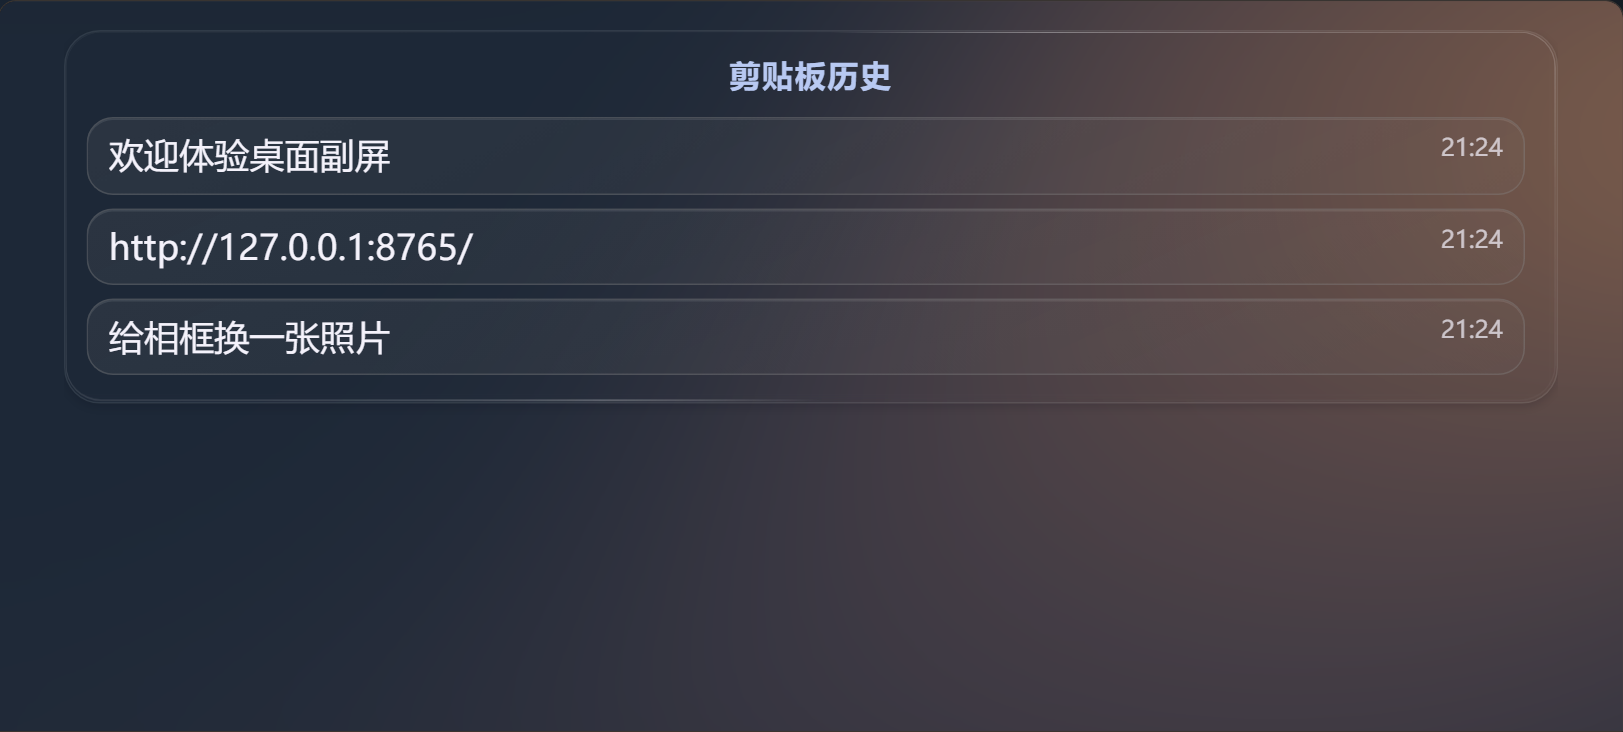
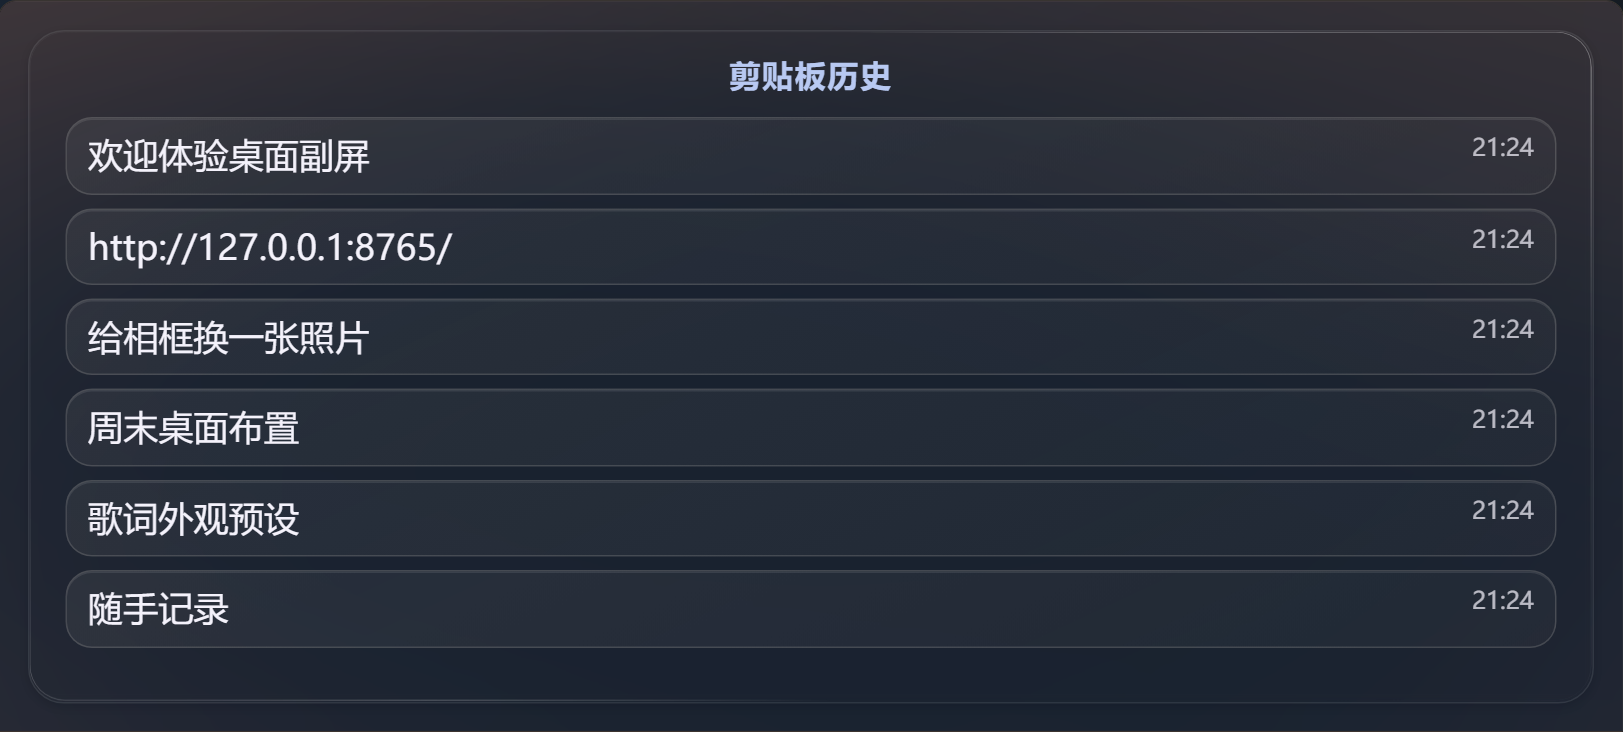
Give standalone clipboard pages equal margins and make weather adjustable

diff --git a/wwwroot/control/pages.js b/wwwroot/control/pages.js
@@ -30,7 +30,8 @@
       gpuName: 'GPU 演示'
     },
     data: { 'weather.temperature': 16, 'weather.feels': 14, 'weather.code': 0, 'weather.wind': 3,
-      'weather.humidity': 54, 'weather.day': true, 'weather.place': '示例地点', 'weather.configured': true }
+      'weather.humidity': 54, 'weather.day': true, 'weather.place': '示例地点', 'weather.configured': true,
+      'clipboard.history': [{ id: 'preview', kind: 'text', text: '剪贴板示例', copiedAt: '2026-01-01T10:00:00Z' }] }
   };
   const sizes = [['small', '小'], ['medium', '中'], ['large', '大']];
   const weatherShapes = [['card', '卡片'], ['round', '圆形'], ['capsule', '胶囊'], ['square', '方形']];
@@ -163,7 +164,7 @@
   function refreshPreview() {
     const page = currentPage();
     preview.style.setProperty('--preview-background', page.color);
-    layoutTools.hidden = page.widgets.length === 0;
+    layoutTools.hidden = page.widgets.length === 0 || widgetPlacement.isClipboardPage(page);
     resetLayout.disabled = !widgetPlacement.isFree(page);
     previewClocks = [];
     previewMusic = [];
@@ -329,10 +330,36 @@
         entries: [['', '无'], ...Object.entries(metrics).map(([id, info]) => [id, info[0]])]
       });
     }
-    const weather = widget.manifest?.blocks?.find(block => block.kind === 'weather');
-    if (weather) field(fields, '天气形状', weather.shape ?? 'card', value => {
-      weather.shape = value;
-    }, { entries: weatherShapes });
+    const weatherBlocks = widget.manifest?.blocks?.filter(block => block.kind === 'weather') ?? [];
+    weatherBlocks.forEach((weather, index) => {
+      const suffix = weatherBlocks.length > 1 ? ' ' + (index + 1) : '';
+      field(fields, '天气形状' + suffix, weather.shape ?? 'card', value => {
+        weather.shape = value;
+      }, { entries: weatherShapes });
+      const label = node('label', 'weather-transparency', '背景透光度' + suffix);
+      const value = node('output');
+      const slider = node('input');
+      slider.type = 'range';
+      slider.min = 0;
+      slider.max = 100;
+      slider.value = weather.transparency ?? deskWeather.defaultTransparency;
+      slider.setAttribute('aria-label', '背景透光度' + suffix);
+      const showValue = () => {
+        value.textContent = slider.value + '%';
+        slider.setAttribute('aria-valuetext', value.textContent);
+      };
+      showValue();
+      slider.addEventListener('input', () => {
+        weather.transparency = slider.valueAsNumber;
+        showValue();
+        const frame = preview.querySelector('[data-widget-id="' + CSS.escape(widget.id) + '"]');
+        const card = frame?.querySelectorAll('.widget-weather')[index];
+        if (card) deskWeather.setTransparency(card, weather.transparency);
+        save.disabled = !dirty();
+      });
+      label.append(value, slider);
+      fields.append(label);
+    });
     if (widget.type === 'custom') fields.append(button('编辑组件 JSON', () => {
       replacing = { id: widget.id, page: page.id };
       const manifest = { ...widget.manifest, name: widget.name, color: widget.color, size: widget.size };

diff --git a/wwwroot/display/pages.js b/wwwroot/display/pages.js
@@ -53,7 +53,9 @@ const phonePages = (() => {
       ? widgetV2.make(widget, capability && actionsEnabled ? runAction : null)
       : deskWidgets.make(widget, capability && shortcutsEnabled ? press : null,
         capability && actionsEnabled ? controlMusic : null, openNote));
-    const free = widgetPlacement.isFree(page);
+    const clipboardPage = widgetPlacement.isClipboardPage(page);
+    if (clipboardPage) tiles[0].element.classList.add('clipboard-page-card');
+    const free = !clipboardPage && widgetPlacement.isFree(page);
     const rects = free ? widgetPlacement.resolve(page) : null;
     const roots = free ? tiles.map((tile, i) => widgetPlacement.frame(tile.element, rects[i]))
       : tiles.map(tile => tile.element);
@@ -63,7 +65,7 @@ const phonePages = (() => {
       references.some(([, keys]) => keys.some(key => /^(cpu|gpu|ram)\./.test(key)));
     const intervals = references.filter(([, keys]) => keys.some(key => widgetV2.serverGroups.has(key.split('.')[0])))
       .map(([widget]) => widget.manifest.refreshMs ?? 2000);
-    return { page, expanded, tiles, roots, free, needsMetrics, dataDue: 0,
+    return { page, expanded, tiles, roots, free, clipboardPage, needsMetrics, dataDue: 0,
       dataInterval: intervals.length ? Math.min(...intervals) : undefined };
   }
 
@@ -79,7 +81,8 @@ const phonePages = (() => {
     }
     if (!pageViews.has(page)) pageViews.set(page, createPageView(page));
     const view = pageViews.get(page);
-    const { expanded, tiles, roots, free } = view;
+    const { expanded, tiles, roots, free, clipboardPage } = view;
+    dashboard.classList.toggle('clipboard-page', Boolean(clipboardPage));
     stage.replaceChildren(...(free ? roots : []));
     grid.replaceChildren(...(!free && expanded ? roots : []));
     strip.replaceChildren(...(!free && !expanded ? roots : []));
@@ -91,14 +94,14 @@ const phonePages = (() => {
     const pageName = page.name.trim();
     const pageNumber = '第 ' + (pages.indexOf(page) + 1) + ' 页';
     heading.textContent = pageName;
-    heading.hidden = !pageName;
+    heading.hidden = !pageName || clipboardPage;
     if (expanded) {
-      if (pageName) {
+      if (!heading.hidden) {
         dashboard.setAttribute('aria-labelledby', heading.id);
         dashboard.removeAttribute('aria-label');
       } else {
         dashboard.removeAttribute('aria-labelledby');
-        dashboard.setAttribute('aria-label', pageNumber);
+        dashboard.setAttribute('aria-label', pageName || pageNumber);
       }
     }
     dashboard.style.setProperty('--dashboard-background', page.color);

diff --git a/wwwroot/control/pages.css b/wwwroot/control/pages.css
@@ -23,6 +23,9 @@
 .page-properties input[type=color], .widget-fields input[type=color] { width: 48px; height: 36px; }
 .page-properties { margin-top: 16px; }
 .page-properties input[type=text], .widget-fields input[type=text], .widget-fields select { width: 100%; }
+.widget-fields .weather-transparency { grid-template-columns: minmax(0, 1fr) auto; min-width: min(100%, 216px); }
+.weather-transparency output { color: var(--quiet); font-variant-numeric: tabular-nums; }
+.weather-transparency input { grid-column: 1 / -1; width: 100%; margin: 0; accent-color: var(--selected); }
 .page-widget-editor {
   margin: 8px 0;
   padding: 12px;
@@ -42,7 +45,7 @@
   color: white;
   background: var(--preview-background, #1e2030);
   font-size: 14px;
-  container-type: inline-size;
+  container-type: size;
 }
 .widget-layout-tools { justify-content: space-between; gap: 5px 10px; }
 .widget-layout-tools[hidden], #page-detail .widget-layout-preview[hidden] { display: none; }
@@ -95,6 +98,7 @@
 .layout-preview-photo { display: grid; place-items: center; opacity: 1; }
 .layout-preview-wallpaper { display: block; width: 100%; height: 100%; min-height: 0; object-fit: contain; }
 .widget-layout-preview:has(.album-flow:not([hidden])) .layout-preview-scene { background: transparent; }
+.widget-layout-preview.clipboard-page .layout-preview-scene strong { display: none; }
 .layout-preview-custom, .layout-preview-hardware { background: var(--dashboard-light); opacity: 1; }
 .widget-layout-preview .widget-placed {
   cursor: move;

diff --git a/wwwroot/shared/widget-weather.css b/wwwroot/shared/widget-weather.css
@@ -9,9 +9,12 @@
   --sky-bottom: #1c344c;
   --cloud: #c8e3ff;
   --orb: #ffe687;
-  --glass-face: radial-gradient(ellipse at 85% -12%, #e3f4ff29, transparent 67%),
-    linear-gradient(130deg, color-mix(in srgb, var(--sky-top) 70%, transparent),
-      color-mix(in srgb, var(--sky-bottom) 66%, transparent));
+  --weather-opacity: .7;
+  --weather-color-weight: calc(var(--weather-opacity) * 100%);
+  --glass-face: radial-gradient(ellipse at 85% -12%,
+      color-mix(in srgb, #e3f4ff3b var(--weather-color-weight), transparent), transparent 67%),
+    linear-gradient(130deg, color-mix(in srgb, var(--sky-top) var(--weather-color-weight), transparent),
+      color-mix(in srgb, var(--sky-bottom) var(--weather-color-weight), transparent));
   position: relative;
   isolation: isolate;
   display: grid;
@@ -28,6 +31,9 @@
   color: #f6fcff;
   text-align: start;
   container-type: inline-size;
+}
+@media not (prefers-reduced-transparency: reduce) {
+  .widget-weather { background: var(--glass-face); }
 }
 .widget-weather[data-condition="clear"] { --sky-top: #257eae; --sky-bottom: #1b416e; }
 .widget-weather[data-condition="partly"] { --sky-top: #477fab; --sky-bottom: #264063; }

diff --git a/wwwroot/shared/widget-weather.js b/wwwroot/shared/widget-weather.js
@@ -2,6 +2,11 @@
 
 window.deskWeather = (() => {
   const { node } = deskWidgets;
+  const defaultTransparency = 30;
+
+  function setTransparency(card, transparency) {
+    card.style.setProperty('--weather-opacity', (100 - transparency) / 100);
+  }
 
   function condition(code, day) {
     if (!Number.isFinite(code)) return ['idle', ''];
@@ -15,9 +20,10 @@ window.deskWeather = (() => {
     return ['cloud', '多云'];
   }
 
-  function make(shape = 'card') {
+  function make(shape = 'card', transparency = defaultTransparency) {
     const card = node('div', 'widget-weather');
     card.dataset.shape = shape;
+    setTransparency(card, transparency);
     const sky = node('div', 'weather-sky');
     sky.setAttribute('aria-hidden', 'true');
     const motif = node('div', 'weather-motif');
@@ -81,5 +87,5 @@ window.deskWeather = (() => {
     return { element: card, update };
   }
 
-  return { make };
+  return { make, setTransparency, defaultTransparency };
 })();

diff --git a/wwwroot/control/widget-layout-editor.js b/wwwroot/control/widget-layout-editor.js
@@ -47,6 +47,7 @@ window.widgetLayoutEditor = (() => {
       if (active) selected = frame;
     }
     const dimensions = stage.querySelector('.layout-dimensions');
+    if (!dimensions) return;
     dimensions.hidden = !selected;
     sizeControls.tools.hidden = !selected;
     sizeControls.note.textContent = '';
@@ -135,6 +136,16 @@ window.widgetLayoutEditor = (() => {
   }
 
   function render(stage, page, tileFor, changed, pixelTools) {
+    const clipboardPage = widgetPlacement.isClipboardPage(page);
+    stage.classList.toggle('clipboard-page', Boolean(clipboardPage));
+    if (clipboardPage) {
+      const tile = tileFor(page.widgets[0]);
+      tile.classList.add('clipboard-page-card');
+      sizeObserver.disconnect();
+      pixelTools.hidden = true;
+      stage.replaceChildren(background(page), tile);
+      return;
+    }
     const rects = widgetPlacement.resolve(page);
     const frames = [];
     const guides = axes.map(axis => {

diff --git a/wwwroot/shared/widget-placement.js b/wwwroot/shared/widget-placement.js
@@ -7,6 +7,12 @@ window.widgetPlacement = (() => {
   const spans = { small: 1, medium: 2, large: 4 };
   const clamp = (value, min, max) => Math.round(Math.max(min, Math.min(max, value)));
   const isFree = page => page.widgets.some(widget => widget.placement);
+  function isClipboardPage(page) {
+    const [widget] = page.widgets;
+    return page.kind === 'custom' && page.widgets.length === 1 && widget.type === 'custom' &&
+      widget.manifest?.version === 2 &&
+      (widget.manifest.blocks ?? []).some(block => block.kind === 'history' && block.source === 'clipboard.history');
+  }
 
   function resolve(page) {
     const expanded = page.kind === 'hardware' || page.kind === 'custom';
@@ -135,5 +141,5 @@ window.widgetPlacement = (() => {
     return element;
   }
 
-  return { isFree, resolve, adjust, place, frame, preset };
+  return { isFree, isClipboardPage, resolve, adjust, place, frame, preset };
 })();

diff --git a/wwwroot/shared/widgets.css b/wwwroot/shared/widgets.css
@@ -95,9 +95,10 @@
       backdrop-filter: blur(2px);
     }
     .widget .widget-weather {
-      background: var(--glass-face);
-      -webkit-backdrop-filter: blur(8px) saturate(145%) brightness(.88);
-      backdrop-filter: blur(8px) saturate(145%) brightness(.88);
+      --weather-filter: blur(calc(11.4px * var(--weather-opacity)))
+        saturate(calc(1 + .64 * var(--weather-opacity))) brightness(calc(1 - .17 * var(--weather-opacity)));
+      -webkit-backdrop-filter: var(--weather-filter);
+      backdrop-filter: var(--weather-filter);
     }
     .widget:not(.widget-weather-only, .high-contrast)::after, .widget-weather::after {
       -webkit-backdrop-filter: blur(1px) brightness(1.16);

diff --git a/demo/demo-api.js b/demo/demo-api.js
@@ -45,7 +45,9 @@ function manifestValid(manifest) {
       !/^#[\da-f]{6}$/i.test(manifest.color)) return false;
   if (manifest.version === 1) return typeof manifest.template === 'string';
   return manifest.blocks === undefined || (Array.isArray(manifest.blocks) && manifest.blocks.length <= 16 &&
-    manifest.blocks.every(block => block && typeof block.kind === 'string'));
+    manifest.blocks.every(block => block && typeof block.kind === 'string' &&
+      (block.transparency == null || (block.kind === 'weather' && Number.isInteger(block.transparency) &&
+        block.transparency >= 0 && block.transparency <= 100))));
 }
 
 function saveImage(form, types) {

diff --git a/wwwroot/shared/widget-placement.css b/wwwroot/shared/widget-placement.css
@@ -1,3 +1,24 @@
+.clipboard-page .clipboard-page-card {
+  position: absolute;
+  inset: clamp(8px, 4cqh, 24px);
+  display: flex;
+  flex-direction: column;
+  align-items: center;
+  overflow: hidden;
+}
+.clipboard-page-card .widget-v2-layout {
+  flex: 1;
+  min-height: 0;
+  overflow: auto;
+}
+.clipboard-page-card .widget-v2-history { display: flex; flex-direction: column; min-height: 0; }
+.clipboard-page-card .widget-v2-history-list {
+  max-height: none;
+  padding-inline: 0;
+  scrollbar-gutter: stable both-edges;
+}
+.clipboard-page-card .widget-v2-empty { margin: auto; }
+
 .widget-stage {
   position: absolute;
   inset: 0;

diff --git a/wwwroot/display/pages.css b/wwwroot/display/pages.css
@@ -21,6 +21,7 @@ main:has(#page-backdrop > .album-flow:not([hidden])) #wallpaper { padding: 2.5cq
 #dashboard-widgets { flex: 1; min-height: 0; grid-auto-rows: minmax(7.5em, 1fr); overflow: auto; }
 #dashboard-widgets:has(.widget-v2, .widget-music), #page-widgets:has(.widget-v2, .widget-music) { grid-auto-rows: max-content; }
 #dashboard-widgets, #page-widgets { touch-action: pan-y; }
+.clipboard-page #dashboard-widgets { overflow: visible; }
 #dashboard-empty { margin: auto; }
 #page-widgets {
   flex-shrink: 0;

diff --git a/wwwroot/shared/widget-v2.js b/wwwroot/shared/widget-v2.js
@@ -180,7 +180,7 @@ window.widgetV2 = (() => {
       } };
     }
     if (block.kind === 'weather') {
-      const card = deskWeather.make(block.shape ?? 'card');
+      const card = deskWeather.make(block.shape ?? 'card', block.transparency ?? undefined);
       box.append(card.element);
       return { box, update(context) {
         updateLabel(context);
